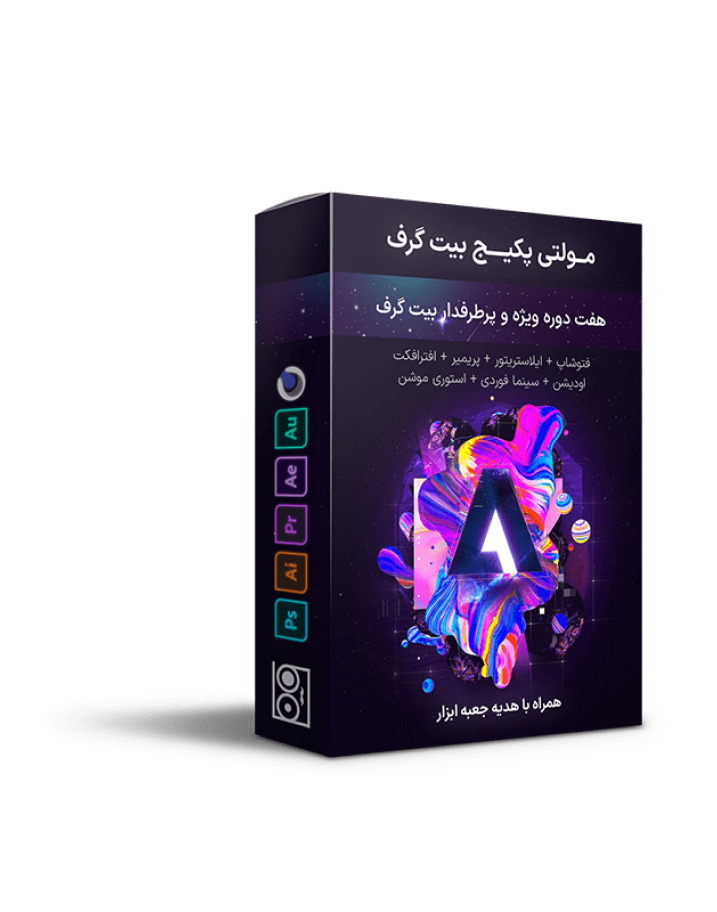
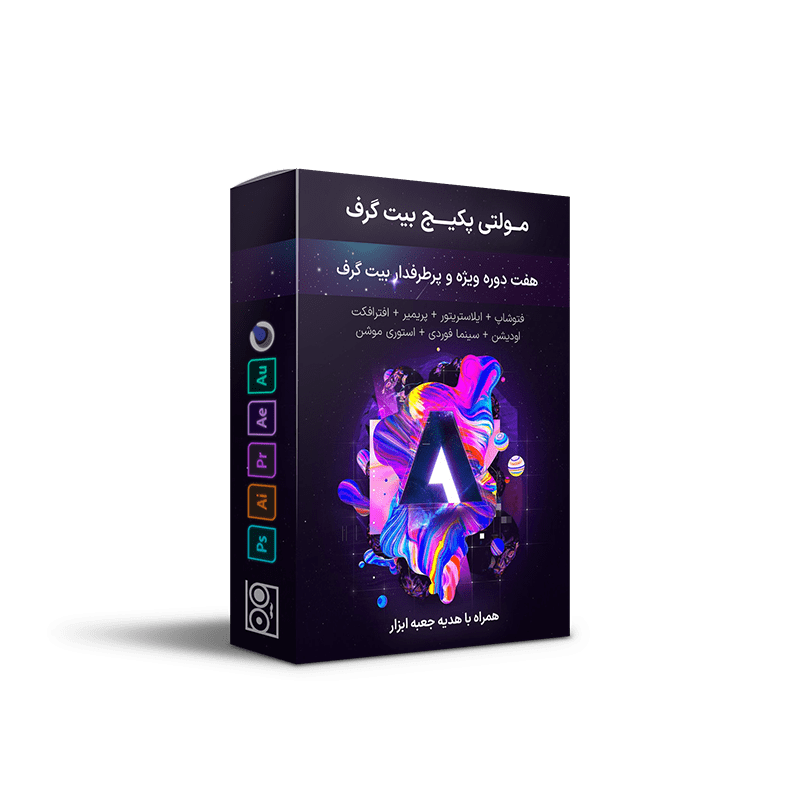
fix button

Changed region(s): [[0.1534, 0.1875, 0.9205, 0.8438]]

diff --git a/style.css b/style.css
@@ -123,12 +123,11 @@ header svg {
   justify-content: center;
 }
 .cart {
-  margin: 0 auto;
+  margin: 0;
   display: flex;
   flex-direction: column;
   justify-content: center;
-  justify-items: center;
-  flex: 1 1 calc(33.333% - 30px);
+  flex: 0 1 calc(25% - 30px); /* حداکثر 4 کارت در یک ردیف */
   border-radius: 12px;
   background-color: rgba(34, 34, 34, 1);
   transition: transform 0.3s ease, background 0.3s ease;
@@ -186,8 +185,8 @@ header svg {
   flex-wrap: wrap;
   gap: 30px;
   padding: 10px 30px;
-  justify-content: space-between;
-  align-items: center;
+  justify-content: space-around;
+  align-items: flex-start;
 }
 .cart:hover {
   background: linear-gradient(180deg, #272727 -7.54%, #b84a55 81.61%);
@@ -505,7 +504,7 @@ header svg {
   padding: 8px 10px;
   border: none;
   border-radius: 4px;
-  font-size: 11px;
+  font-size: 14.5px;
   font-weight: 700;
   text-align: center;
   transition: background 0.3s;
@@ -702,5 +701,8 @@ header svg {
 @media (max-width: 1300px) {
   .course {
     width: auto;
+  }
+  .cart {
+    flex: 1 1 calc(33.333% - 30px); /* 3 کارت در یک ردیف */
   }
 }

diff --git a/index.html b/index.html
@@ -118,7 +118,7 @@
         <div class="course__content-wrapper">
           <div class="course__image">
             <!-- <div class="course__image-glow"></div> -->
-            <img src="img/product.png" alt="بسته دوره آموزشی">
+            <img src="img/multi.png" alt="بسته دوره آموزشی">
           </div>
           <div class="course__content">
             <div class="course_title_container">
